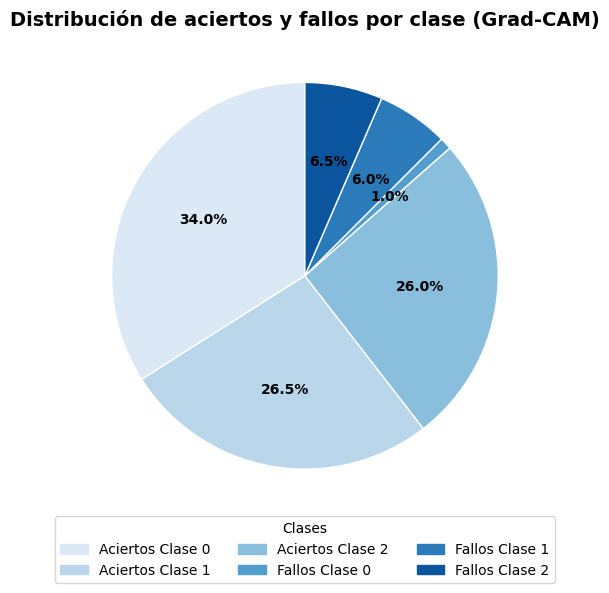
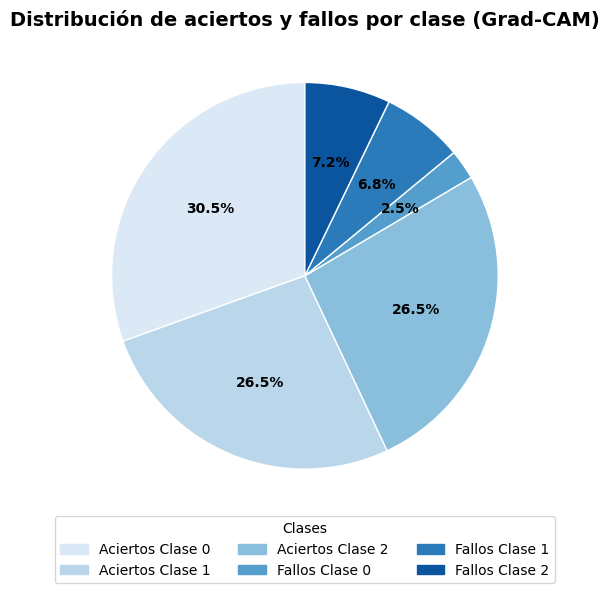
Más datos Test
Se han añadido más datos para el GradCAM y se han generado las graficas pertinentes otra vez.

diff --git a/Testeo/Test.py b/Testeo/Test.py
@@ -206,11 +206,11 @@ indices_2 = np.where(y_test == 2)[0]
 
 np.random.seed(42)
 sample_idx = np.concatenate([
-    np.random.choice(indices_0, size=30, replace=False),
-    np.random.choice(indices_1, size=30, replace=False),
-    np.random.choice(indices_2, size=30, replace=False),
-    np.random.choice(len(y_test), size=110, replace=False)
-])
+    np.random.choice(indices_0, size=90, replace=False),
+    np.random.choice(indices_1, size=90, replace=False),
+    np.random.choice(indices_2, size=90, replace=False),
+    np.random.choice(len(y_test), size=330, replace=False)
+]) # Total de imagenes escogidas 690
 
 y_gradcam_real = []
 y_gradcam_pred = []

diff --git a/Resultados/resultados_test_modelo_final_20250412_105257.tex b/Resultados/resultados_test_modelo_final_20250412_105257.tex
@@ -2,6 +2,6 @@
 \toprule
 Modelo & Accuracy & AUC & Tiempo_Prediccion_s & Macro_F1 & Macro_Recall & Macro_Precision & Precision_Clase_0 & Recall_Clase_0 & F1_Clase_0 & Precision_Clase_1 & Recall_Clase_1 & F1_Clase_1 & Precision_Clase_2 & Recall_Clase_2 & F1_Clase_2 \\
 \midrule
-prueba_modelo_Entrenamiento_86733 & 0.8363 & 0.9431 & 4.5400 & 0.8384 & 0.8363 & 0.8421 & 0.9905 & 0.9286 & 0.9585 & 0.7377 & 0.8036 & 0.7692 & 0.7982 & 0.7768 & 0.7873 \\
+prueba_modelo_Entrenamiento_86733 & 0.8363 & 0.9431 & 4.9000 & 0.8384 & 0.8363 & 0.8421 & 0.9905 & 0.9286 & 0.9585 & 0.7377 & 0.8036 & 0.7692 & 0.7982 & 0.7768 & 0.7873 \\
 \bottomrule
 \end{tabular}

diff --git a/Resultados/resultados_test_modelo_final_20250412_105257.md b/Resultados/resultados_test_modelo_final_20250412_105257.md
@@ -1,3 +1,3 @@
 | Modelo                            |   Accuracy |      AUC |   Tiempo_Prediccion_s |   Macro_F1 |   Macro_Recall |   Macro_Precision |   Precision_Clase_0 |   Recall_Clase_0 |   F1_Clase_0 |   Precision_Clase_1 |   Recall_Clase_1 |   F1_Clase_1 |   Precision_Clase_2 |   Recall_Clase_2 |   F1_Clase_2 |
 |:----------------------------------|-----------:|---------:|----------------------:|-----------:|---------------:|------------------:|--------------------:|-----------------:|-------------:|--------------------:|-----------------:|-------------:|--------------------:|-----------------:|-------------:|
-| prueba_modelo_Entrenamiento_86733 |    0.83631 | 0.943147 |                  4.54 |   0.838362 |        0.83631 |          0.842115 |            0.990476 |         0.928571 |     0.958525 |            0.737705 |         0.803571 |     0.769231 |            0.798165 |         0.776786 |      0.78733 |
+| prueba_modelo_Entrenamiento_86733 |    0.83631 | 0.943147 |                   4.9 |   0.838362 |        0.83631 |          0.842115 |            0.990476 |         0.928571 |     0.958525 |            0.737705 |         0.803571 |     0.769231 |            0.798165 |         0.776786 |      0.78733 |
